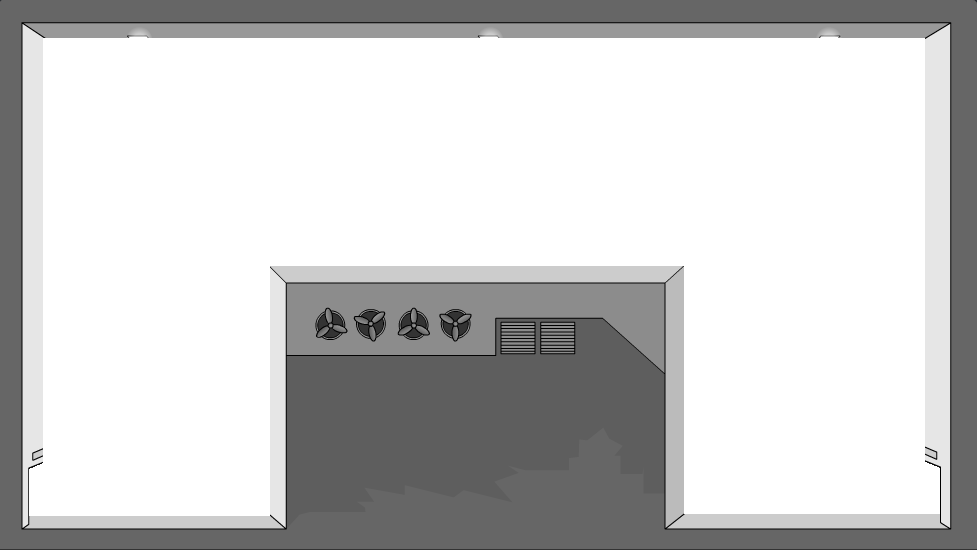
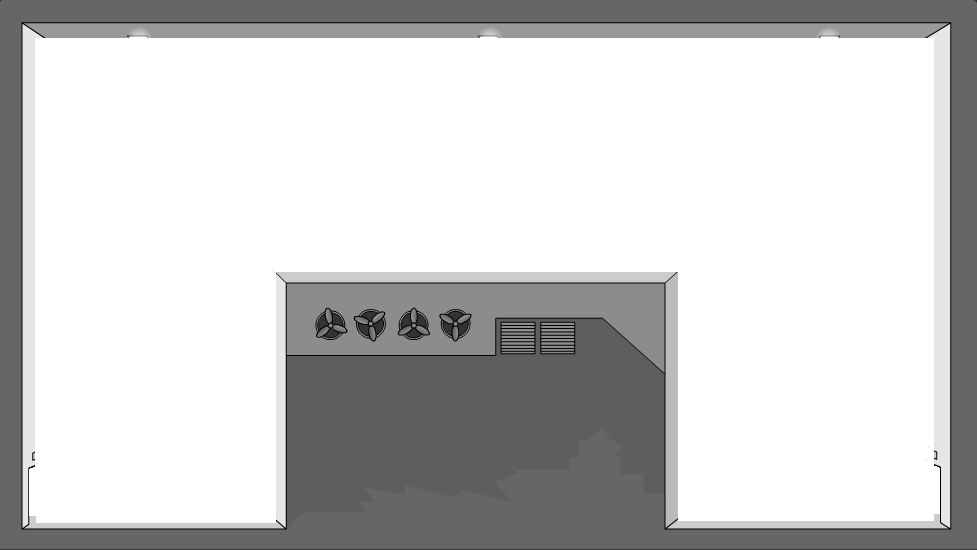
Change foreground and view order

Changed region(s): [[0.0307, 0.4636, 0.9519, 0.9582], [0.9212, 0.0618, 0.9826, 0.8345], [0.0307, 0.0618, 0.0614, 0.8345]]

diff --git a/core/src/com/game/views/View.java b/core/src/com/game/views/View.java
@@ -14,6 +14,8 @@ import com.badlogic.gdx.utils.viewport.Viewport;
 import com.esotericsoftware.spine.SkeletonRenderer;
 import com.game.controllers.LevelController;
 import com.game.controllers.PlayerController;
+import com.game.models.Collider;
+import com.game.models.LevelObject;
 import com.game.models.Model;
 import com.game.services.AssetsService;
 
@@ -76,17 +78,32 @@ public class View {
         levelBackground.draw(batch);
 
         for(LevelObjectView view : levelObjectsViews) {
-           if(view.getUpdatedSprite()!= null)
-                view.getUpdatedSprite().draw(batch);
+           if(view.getUpdatedSprite()!= null) {
+               if (!isDoor(view))
+                   view.getUpdatedSprite().draw(batch);
+           }
         }
 
         skeletonRenderer.draw(batch, playerView.getUpdatedSkeleton());
 
 
         levelForeground.draw(batch);
+
+        for(LevelObjectView view : levelObjectsViews) {
+            if(view.getUpdatedSprite()!= null){
+                if(isDoor(view))
+                    view.getUpdatedSprite().draw(batch);
+            }
+        }
+
         batch.end();
 
        // debugRenderer.render(model.getWorld(), camera.combined.cpy().scale(ConstantsService.METERS_TO_PIXELS, ConstantsService.METERS_TO_PIXELS, 0));
+
+    }
+
+    private boolean isDoor(LevelObjectView view) {
+        return view.model.getType().equals(LevelObject.Type.DOOR);
 
     }
 
